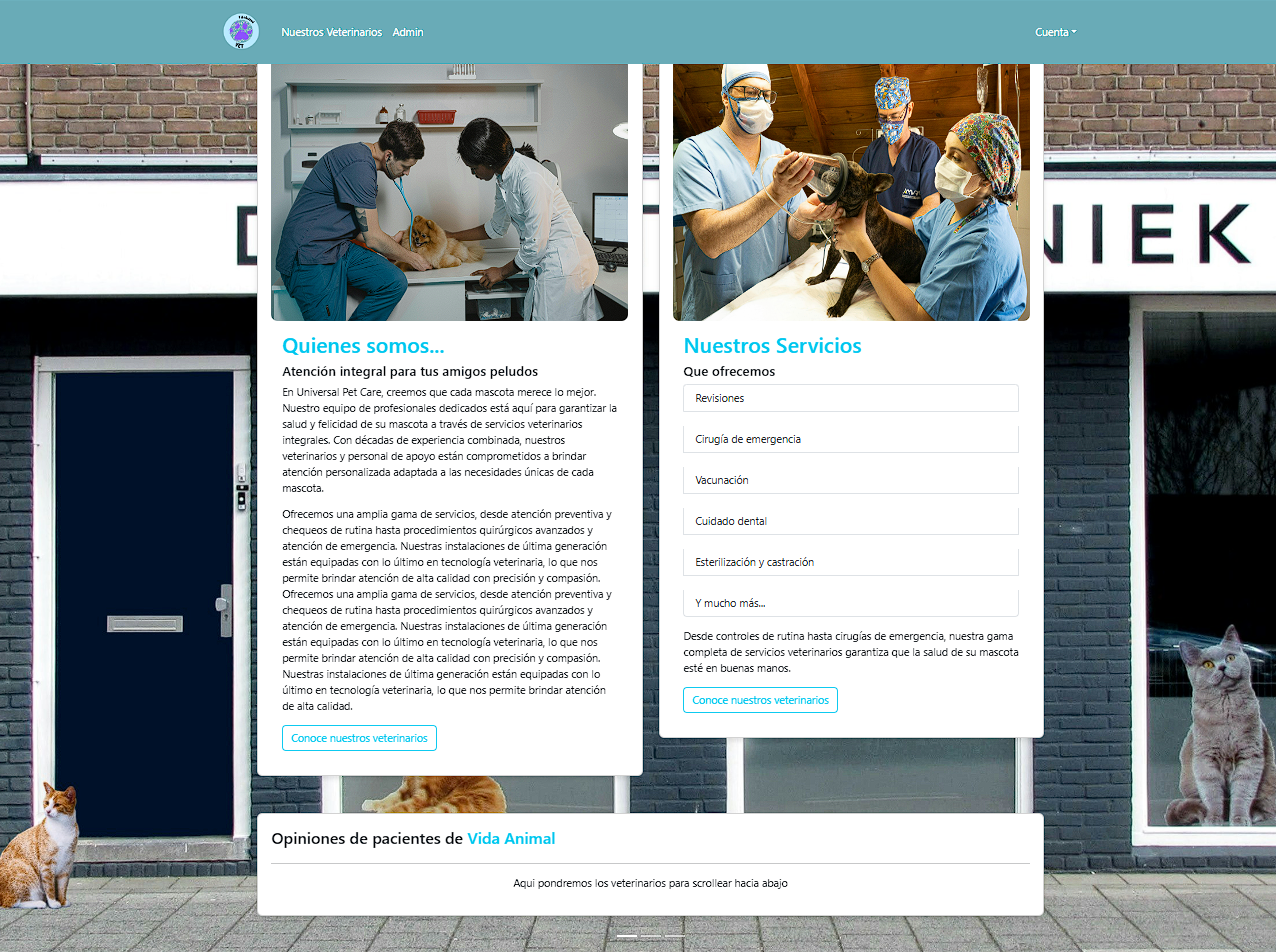
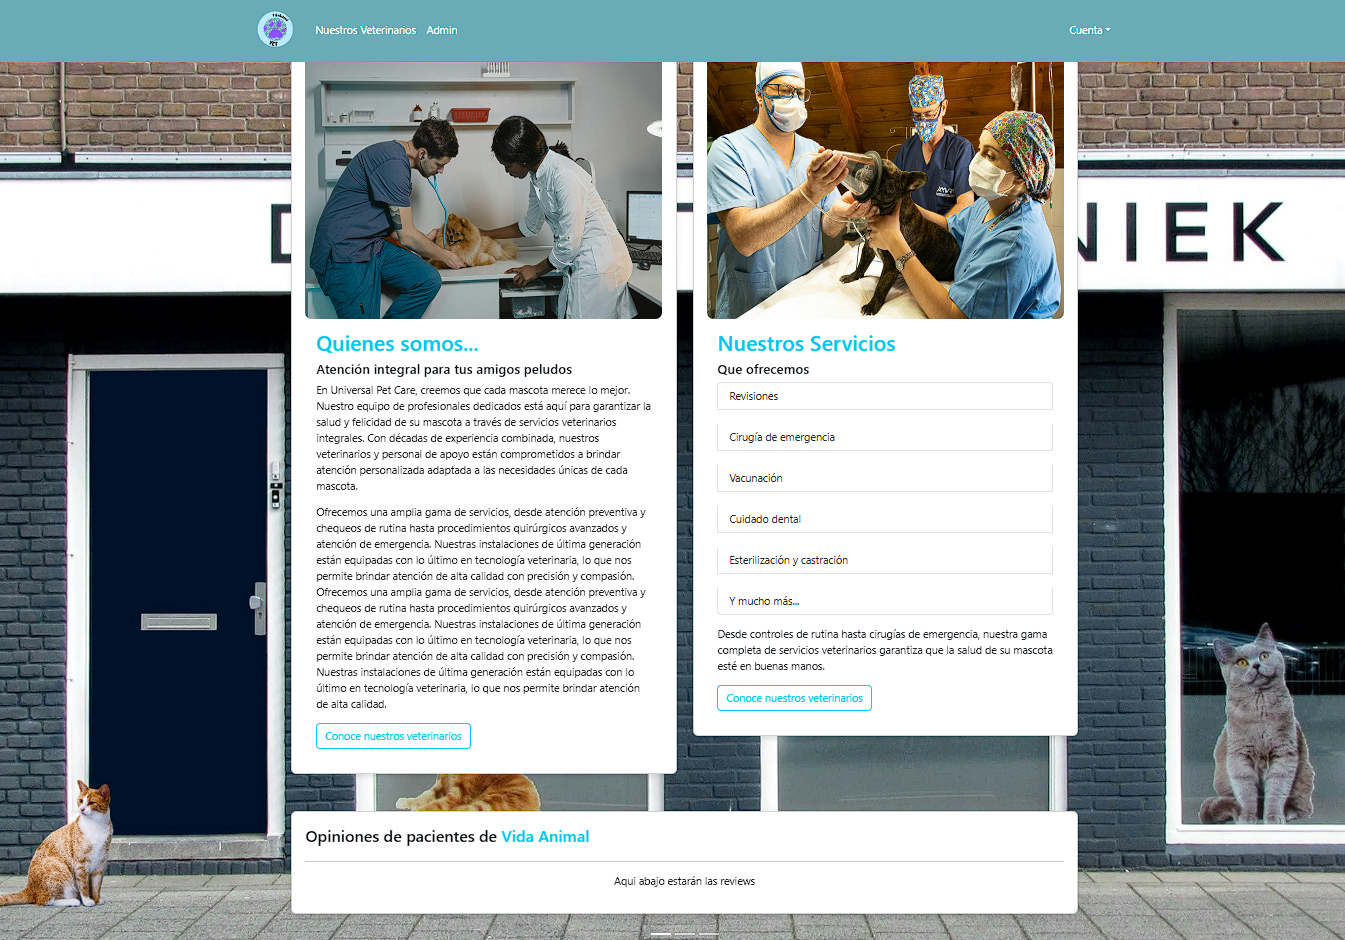
image home ui

diff --git a/pet-frontend/src/components/home/Home.jsx b/pet-frontend/src/components/home/Home.jsx
@@ -84,7 +84,7 @@ const Home = () => {
                 </h4>
                 <hr />
 
-                <p className="text-center">Aqui pondremos los veterinarios para scrollear hacia abajo</p>
+                <p className="text-center">Aqui abajo estarán las reviews</p>
             </div>
         </Container>
     );
